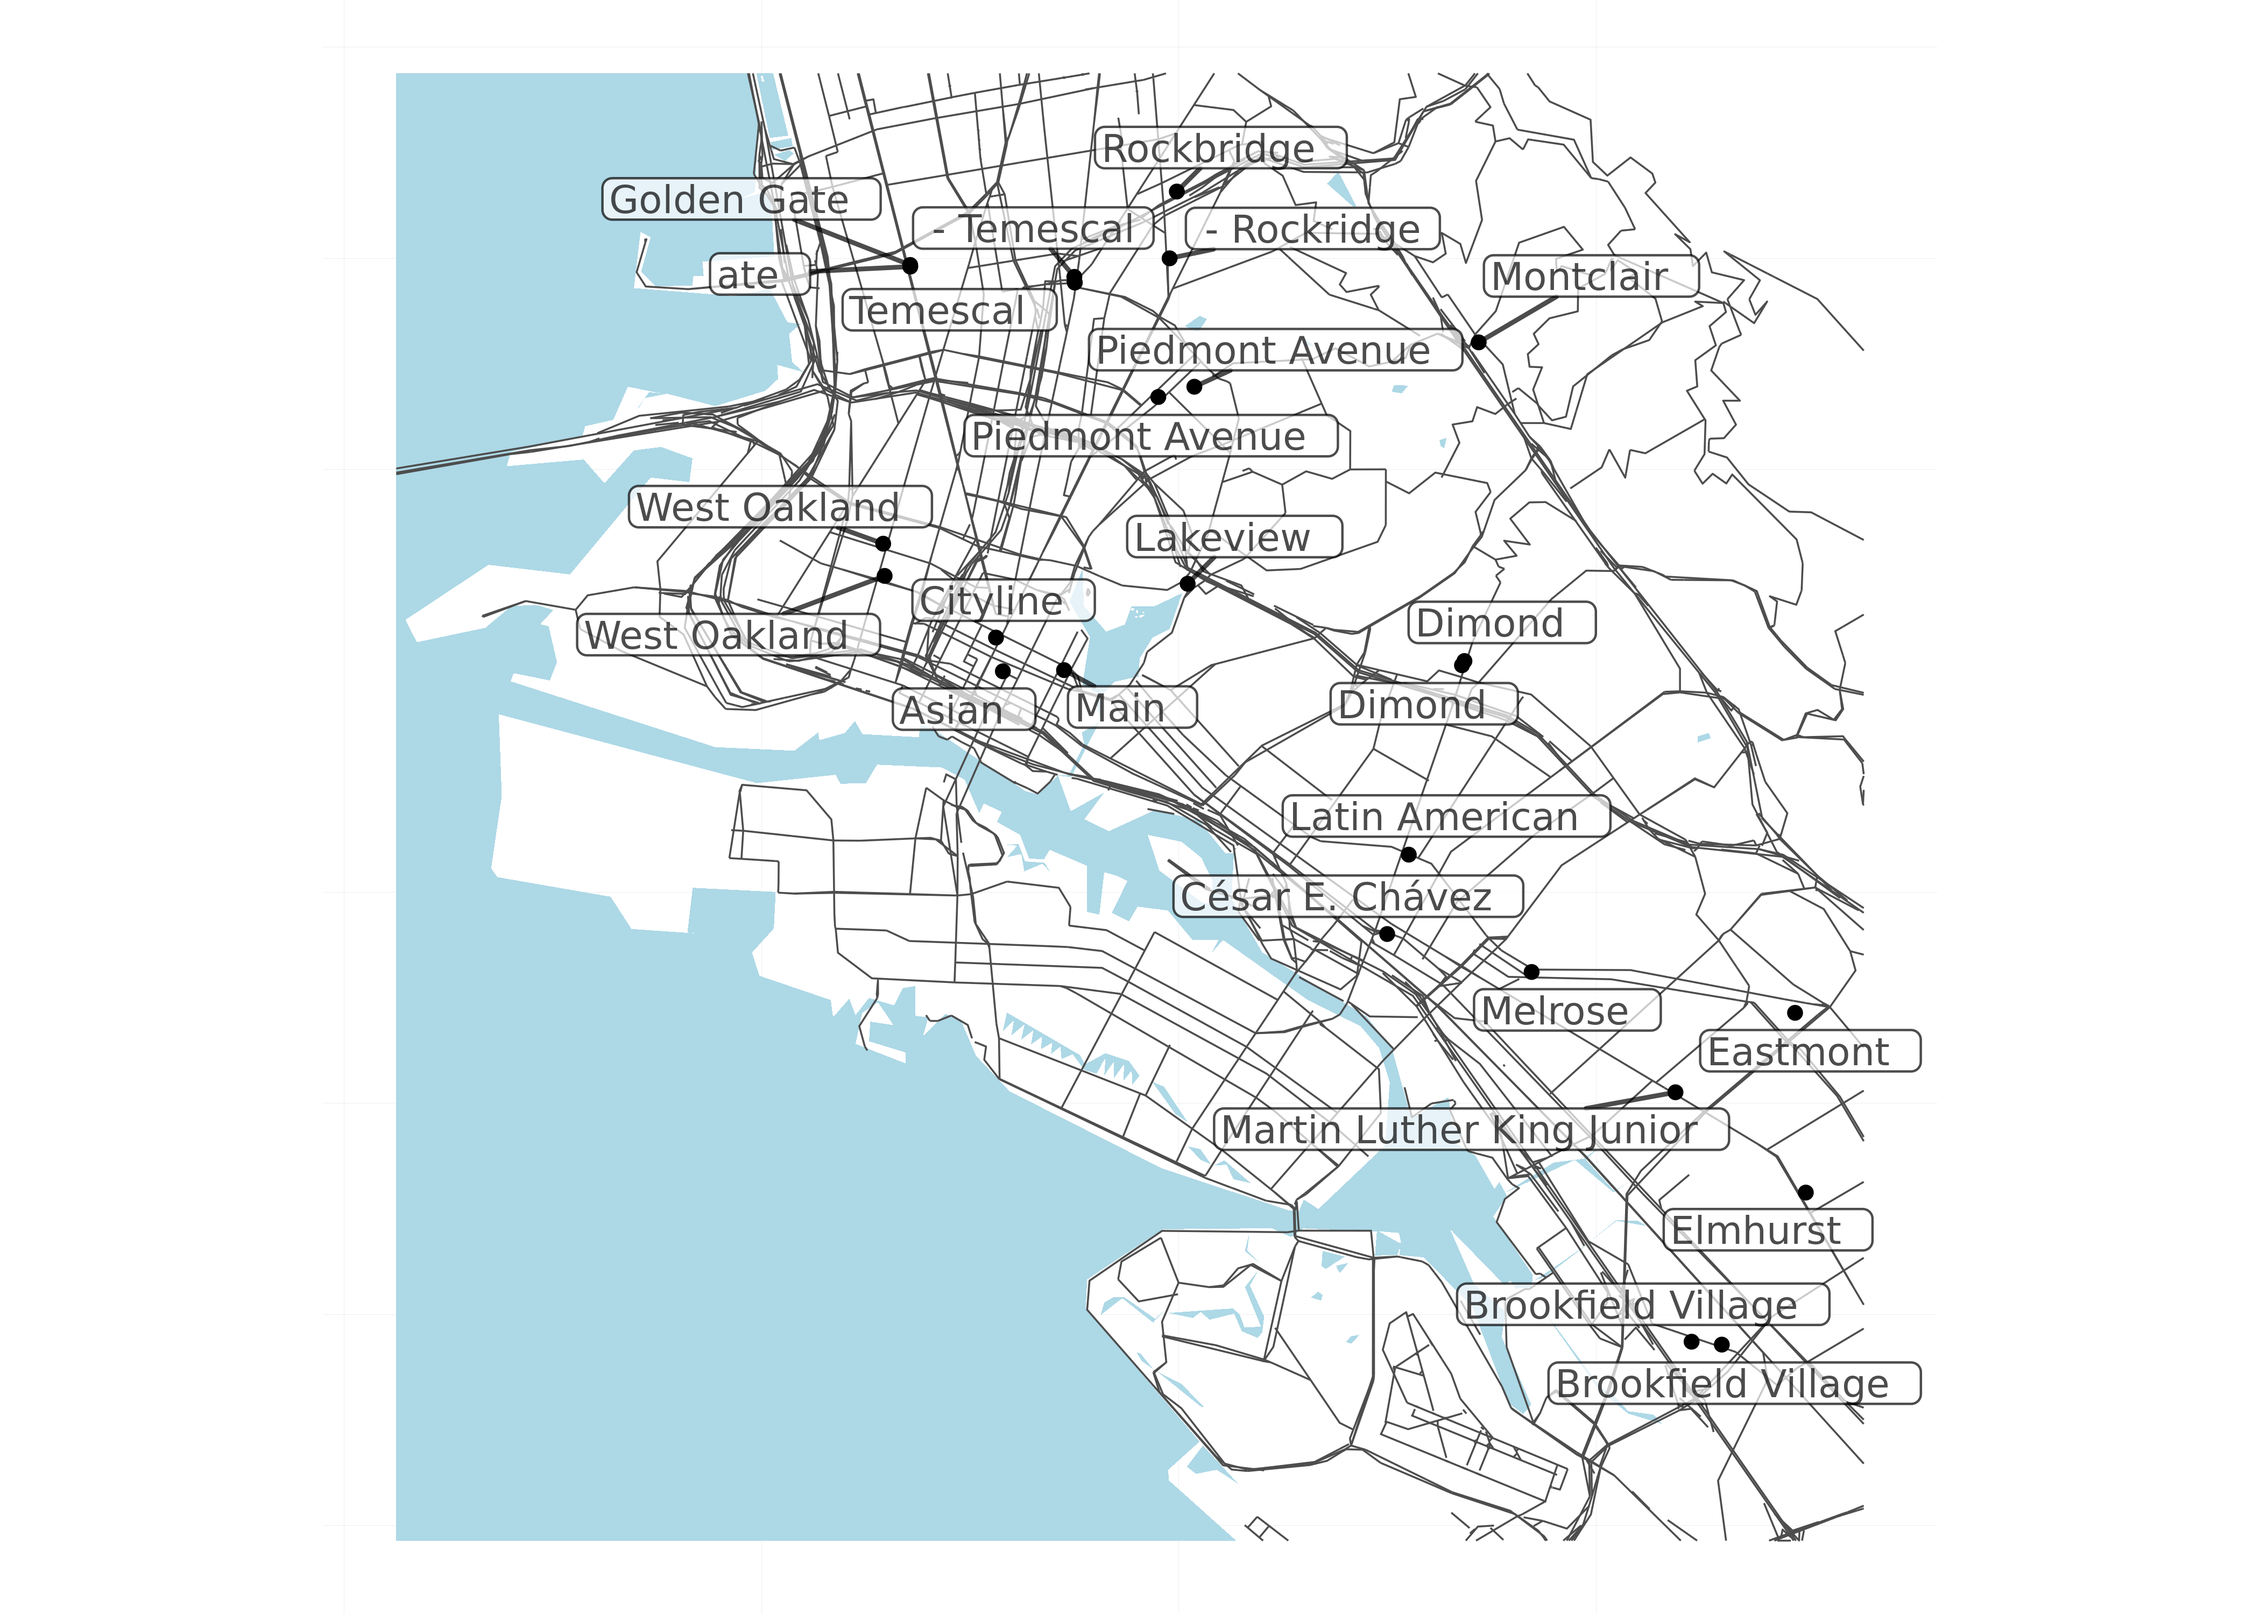
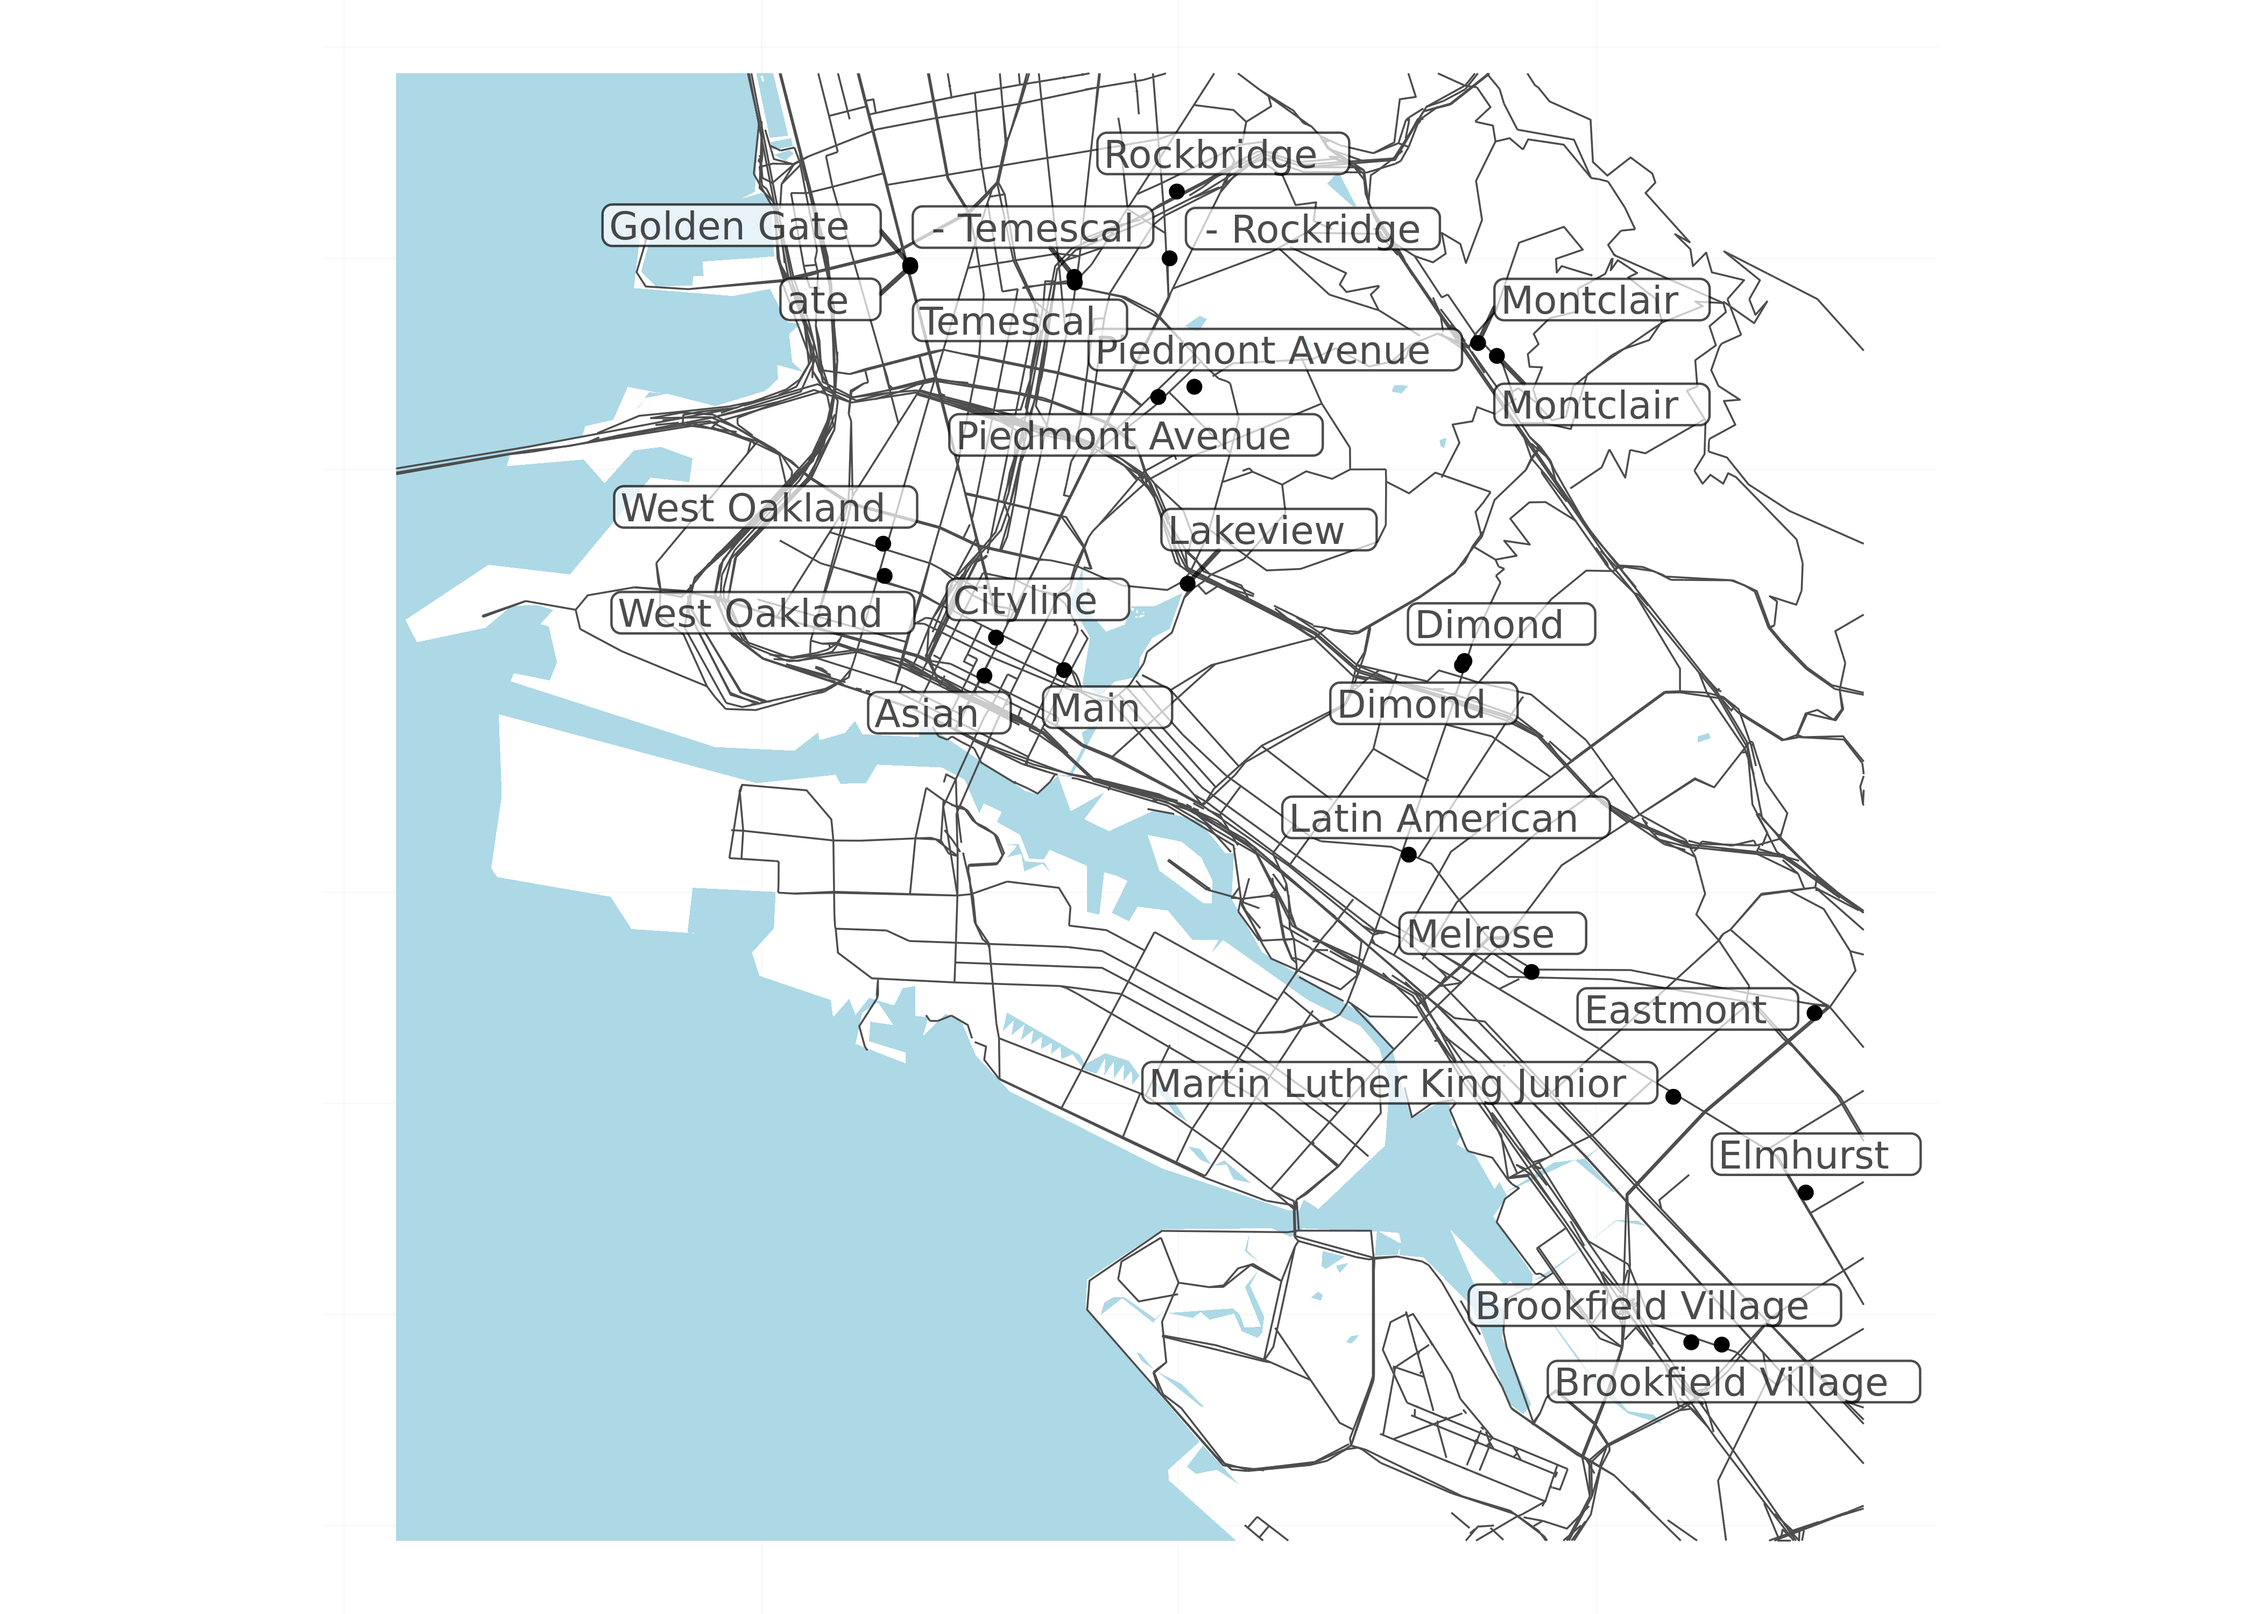
update website, fixes #16

diff --git a/index.html b/index.html
@@ -230,6 +230,24 @@ div.tocify {
 <div id="introduction" class="section level2">
 <h2>Introduction</h2>
 <p><code>rmapzen</code> is a client for any implementation of the Mapzen API. Though Mapzen itself has <a href="https://mapzen.com/blog/shutdown/">gone out of business</a>, <code>rmapzen</code> can be set up to work with any provider who hosts Mapzen’s open-source software, including <a href="https://geocode.earth/">geocode.earth</a>, <a href="https://www.nextzen.org/">Nextzen</a>, and <a href="https://geosearch.planninglabs.nyc/">NYC GeoSearch from NYC Planning Labs</a>. For more information, see <a href="https://mapzen.com/documentation/" class="uri">https://mapzen.com/documentation/</a>. The project is <a href="https://github.com/tarakc02/rmapzen">available on github</a> as well as <a href="https://cran.r-project.org/package=rmapzen">CRAN</a>.</p>
+<p><code>rmapzen</code> provides access to the following Mapzen API services:</p>
+<ul>
+<li><a href="https://mapzen.com/documentation/search/">Search</a>: Structured and unstructured search and geocoding, reverse geocoding, and autocomplete.</li>
+<li><a href="https://mapzen.com/documentation/vector-tiles/">Vector Tiles</a>: Basemap vector data.</li>
+<li><a href="https://mapzen.com/documentation/mobility/isochrone/api-reference/">Isochrone</a>: Calculation of areas reachable from a specified locations.</li>
+</ul>
+</div>
+<div id="installation-and-set-up" class="section level2">
+<h2>Installation and Set-up</h2>
+<p><code>rmapzen</code> is available <a href="https://cran.r-project.org/package=rmapzen">on CRAN</a>. To install:</p>
+<pre class="r"><code>install.packages(&quot;rmapzen&quot;)</code></pre>
+<p>You’ll also need to set up options specific to the API provider you end up using. <code>rmapzen</code> works with API providers who implement the Mapzen API. In order to specify provider information (such as URL and API key), use <code>mz_set_host</code>. There are custom set-up functions for the following providers:</p>
+<ul>
+<li><a href="https://geocode.earth/">geocode.earth</a>, for search services. Use the function <code>mz_set_search_host_geocode.earth</code></li>
+<li><a href="https://www.nextzen.org/">Nextzen</a>, for vector tiles. Use the function <code>mz_set_tile_host_nextzen</code>.</li>
+<li><a href="https://geosearch.planninglabs.nyc/">NYC GeoSearch</a>, for search services using New York City’s Property Address Directory. Use <code>mz_set_search_host_nyc_geosearch</code>.</li>
+</ul>
+<p>As of this writing, there are no public providers offering the Mapzen isochrone service, but <code>mz_isochrone</code> and related functions are available. If you know of a provider not listed here, use the more general <code>mz_set_host</code> function, and <a href="https://github.com/tarakc02/rmapzen/issues">submit an issue</a> so we can create a custom set up function for future users.</p>
 </div>
 <div id="search" class="section level2">
 <h2>Search</h2>
@@ -241,21 +259,25 @@ div.tocify {
 <li><code>mz_place</code></li>
 <li><code>mz_structured_search</code> (<a href="https://mapzen.com/documentation/search/structured-geocoding/">what’s this?</a>)</li>
 </ul>
-<p>For example, to search for Hard Rock Cafes in Sweden (see <a href="#additional-convenience-features">Additional convenience features</a> below for more ways to get the correct ISO-3166 country code):</p>
-<pre class="r"><code>library(rmapzen)
-
-oakland_public &lt;- mz_search(&quot;Oakland Public Library Branch&quot;, size = 25)
+<p>For example, to search for public library branches in Oakland, CA:</p>
+<pre class="r"><code># load rmapzen and run provider set-up functions
+library(rmapzen)
+mz_set_tile_host_nextzen()
+mz_set_search_host_geocode.earth()</code></pre>
+<pre class="r"><code>oakland_public &lt;- mz_search(&quot;Oakland Public Library Branch&quot;, 
+                            size = 25)
 oakland_public</code></pre>
 <pre><code>## GeoJSON response from Mapzen
-## Attribution info: http://pelias.mapzen.com/v1/attribution 
+## Attribution info: https://geocode.earth/guidelines 
 ## Bounds (lon/lat): (-122.29, 37.74) - (-122.17, 37.85)
 ## 25 locations:
 ##    Oakland Public Library - Temescal Branch (-122.26, 37.84)
 ##    Oakland Public Library - Rockridge Branch (-122.25, 37.84)
 ##    Lakeview Branch Oakland Public Library (-122.25, 37.81)
 ##    Golden Gate Branch Oakland Public Library (-122.28, 37.84)
-##    Brookfield Village Branch Oakland Public Library (-122.19, 37.74)
+##    Montclair Branch Oakland Public Library (-122.21, 37.83)
 ##   ...</code></pre>
+<p>Search can, optionally, be constrained to a particular country, data layer, boundary rectangle, or boundary circle. Furthermore, search can prioritize results near a given “focus” point. See <code>?mz_search</code>.</p>
 <p>Additionally, <code>mz_geocode</code> is a convenient function to geocode an address, utilizing the more general <code>mz_search</code> function.</p>
 <pre class="r"><code>mz_geocode(&quot;UC Berkeley, Berkeley, CA&quot;)</code></pre>
 <pre><code>## # A tibble: 1 × 4
@@ -274,7 +296,8 @@ library(sf)
 oakland_tiles &lt;- mz_vector_tiles(mz_bbox(oakland_public))
 
 # vector tiles return all layers (roads, water, buildings, etc) in a list
-roads &lt;- as_sf(oakland_tiles$roads) %&gt;% filter(kind != &quot;ferry&quot;)
+roads &lt;- as_sf(oakland_tiles$roads) %&gt;% 
+    filter(kind != &quot;ferry&quot;)
 water &lt;- as_sf(oakland_tiles$water)
 
 labels &lt;- as.data.frame(oakland_public) %&gt;% 
@@ -311,20 +334,20 @@ ggplot() +
 ##  2 Oakland Public Library -…      0.926 Califor… Oakland   Rockridge      
 ##  3 Lakeview Branch Oakland …      0.664 Califor… Oakland   Cleveland Heig…
 ##  4 Golden Gate Branch Oakla…      0.663 Califor… Emeryvil… Gaskill        
-##  5 Brookfield Village Branc…      0.663 Califor… Oakland   Coliseum Indus…
-##  6 West Oakland Branch Oakl…      0.663 Califor… Oakland   Ralph Bunche   
-##  7 Elmhurst Branch Oakland …      0.663 Califor… Oakland   Webster        
+##  5 Montclair Branch Oakland…      0.663 Califor… Oakland   Montclair      
+##  6 Rockbridge Branch Oaklan…      0.663 Califor… Oakland   Rockridge      
+##  7 West Oakland Branch Oakl…      0.663 Califor… Oakland   Ralph Bunche   
 ##  8 Montclair Branch Oakland…      0.663 Califor… Oakland   Montclair      
-##  9 Main Branch Oakland Publ…      0.663 Califor… Oakland   Civic Center   
-## 10 Latin American Branch Oa…      0.663 Califor… Oakland   St. Elizabeth  
+##  9 Eastmont Branch Oakland …      0.663 Califor… Oakland   Havensourt     
+## 10 Elmhurst Branch Oakland …      0.663 Califor… Oakland   Webster        
 ## # ... with 15 more rows</code></pre>
 </div>
-<div id="mapzen-list-methods" class="section level2">
-<h2>Mapzen list methods</h2>
+<div id="accessor-methods" class="section level2">
+<h2>Accessor methods</h2>
 <p>Currently, the following methods are available to pull out commonly used pieces of a response:</p>
 <ul>
-<li><code>mz_coordinates</code> (only available for search results)</li>
-<li><code>mz_bbox</code></li>
+<li><code>mz_coordinates</code> (only available for search results): extracts lat/lon coordinates from search results, and returns them as a <code>data.frame</code>.</li>
+<li><code>mz_bbox</code>: returns the bounding box of an object as a <code>data.frame</code> with columns <code>min_lon</code>, <code>min_lat</code>, <code>max_lon</code>, and <code>max_lat</code>.</li>
 </ul>
 <pre class="r"><code>mz_coordinates(oakland_public)</code></pre>
 <pre><code>## # A tibble: 25 x 2
@@ -370,12 +393,6 @@ ggplot() +
 <li><a href="https://github.com/jhollist/elevatr">elevatr</a> for accessing elevation data, including Mapzen Terrain and Elevation</li>
 <li><a href="https://github.com/Ironholds/poster">postr</a> for address parsing and normalization using the <a href="https://github.com/openvenues/libpostal">libpostal</a> library</li>
 </ul>
-</div>
-<div id="installation" class="section level2">
-<h2>Installation</h2>
-<p><code>rmapzen</code> is available <a href="https://cran.r-project.org/package=rmapzen">on CRAN</a>. To install:</p>
-<pre class="r"><code>install.packages(&quot;rmapzen&quot;)</code></pre>
-<p>You’ll also need to set up soem options specific to the API provider you end up using. See <code>?mz_set_host</code> for details.</p>
 </div>
 
 
